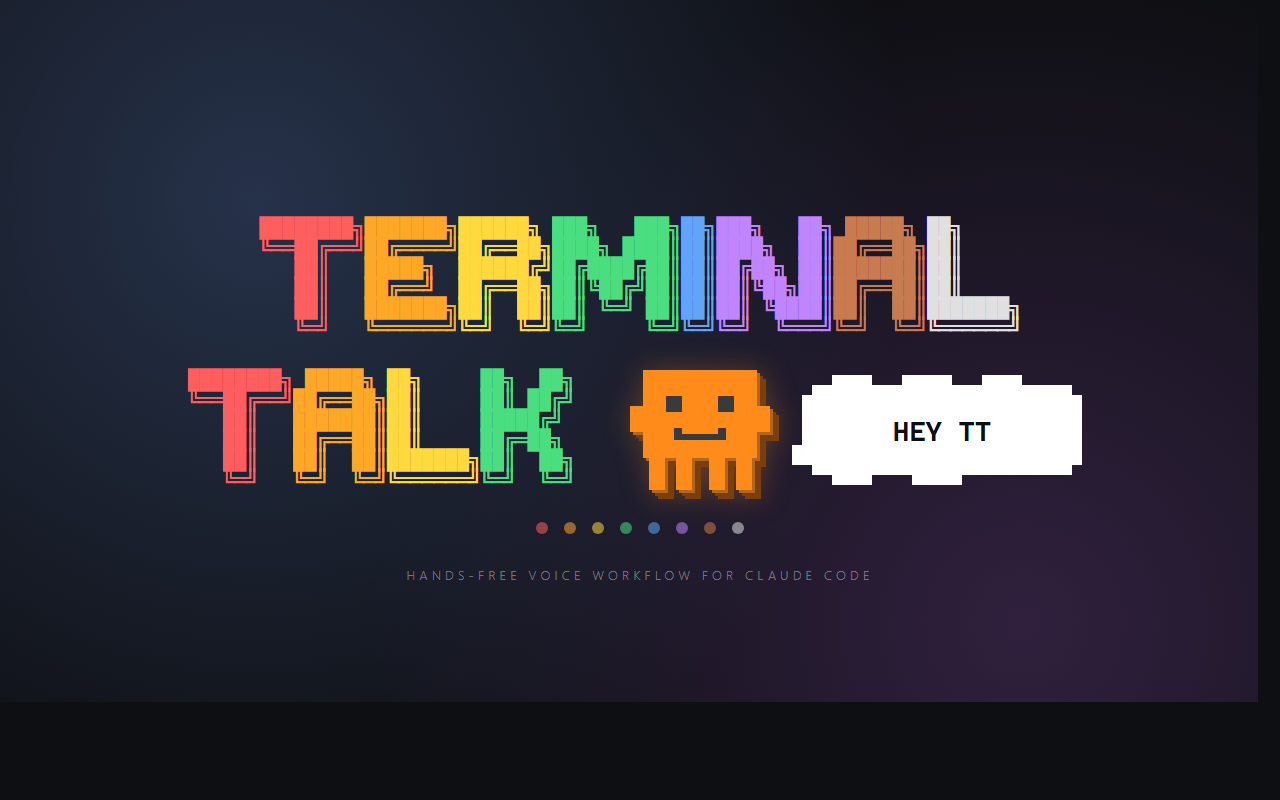
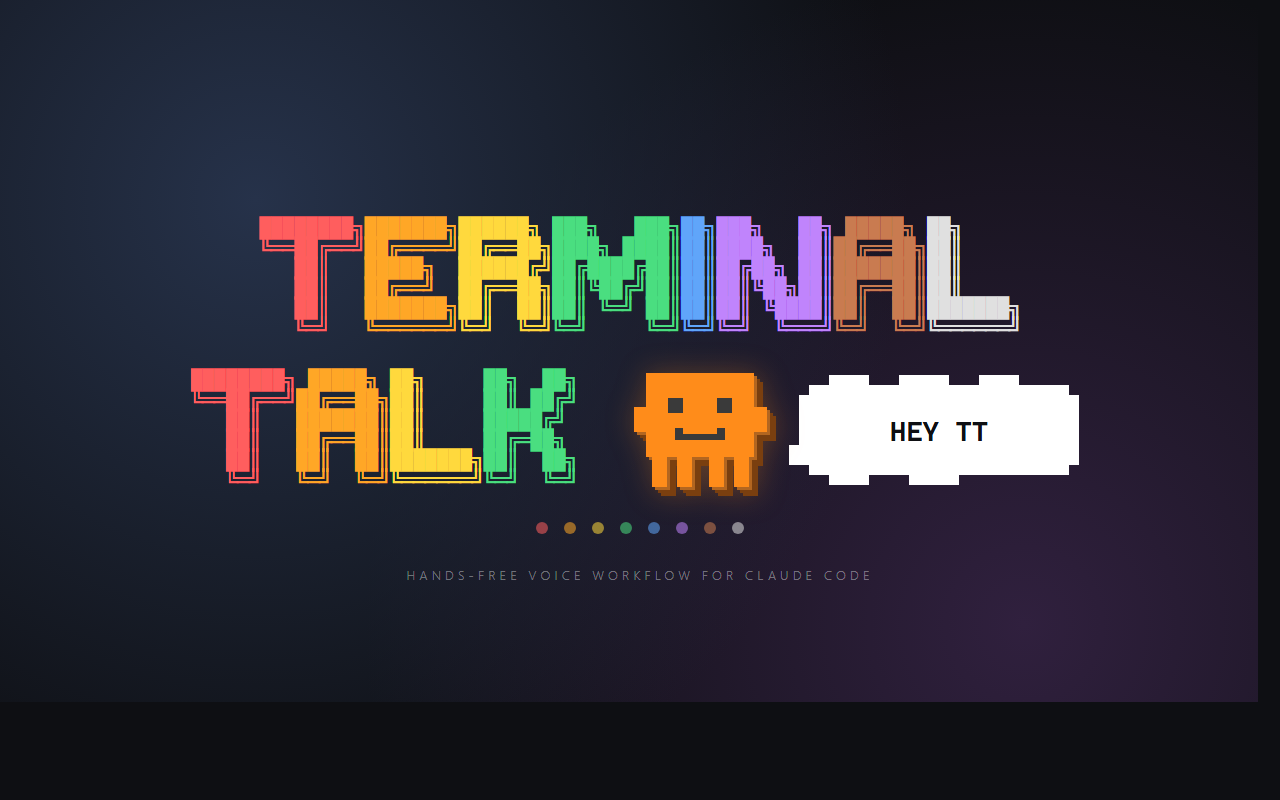
fix(mascot): shrink SVG so 3D shadow doesn't inflate footprint

diff --git a/docs/index.html b/docs/index.html
@@ -329,7 +329,7 @@ footer a { color: var(--text-dim); margin: 0 12px; }
 <span class="tlk-t">   ╚═╝   </span><span class="tlk-a">╚═╝  ╚═╝</span><span class="tlk-l">╚══════╝</span><span class="tlk-k">╚═╝  ╚═╝</span></pre>
 
       <div class="mascot-pair">
-        <svg class="mascot-svg" width="140" height="120" viewBox="0 0 140 120" xmlns="http://www.w3.org/2000/svg" shape-rendering="crispEdges">
+        <svg class="mascot-svg" width="134" height="114" viewBox="0 0 140 120" xmlns="http://www.w3.org/2000/svg" shape-rendering="crispEdges">
           <rect x="13"  y="0"  width="114" height="88" fill="#ff8c1a"/>
           <rect x="0"   y="36" width="13"  height="26" fill="#ff8c1a"/>
           <rect x="127" y="36" width="13"  height="26" fill="#ff8c1a"/>

diff --git a/scripts/wallpaper.html b/scripts/wallpaper.html
@@ -120,7 +120,7 @@
              is OUR differentiator vs Anthropic's Clawd — Clawd has no
              mouth, ours is the talkative one. Smile formed from three
              grey rectangles arranged as a shallow U. -->
-        <svg class="mascot-svg" width="140" height="120" viewBox="0 0 140 120" xmlns="http://www.w3.org/2000/svg" shape-rendering="crispEdges">
+        <svg class="mascot-svg" width="134" height="114" viewBox="0 0 140 120" xmlns="http://www.w3.org/2000/svg" shape-rendering="crispEdges">
           <rect x="13"  y="0"  width="114" height="88" fill="#ff8c1a"/>
           <rect x="0"   y="36" width="13"  height="26" fill="#ff8c1a"/>
           <rect x="127" y="36" width="13"  height="26" fill="#ff8c1a"/>
